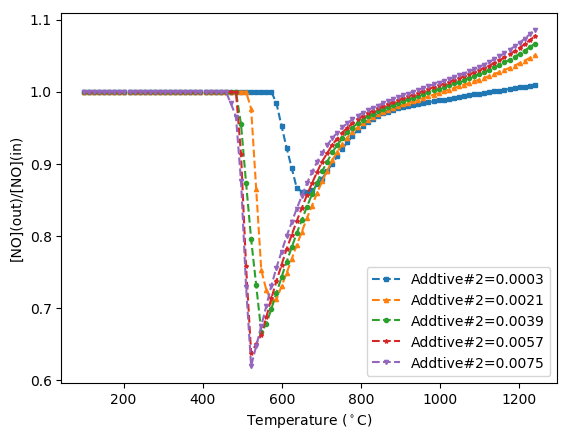
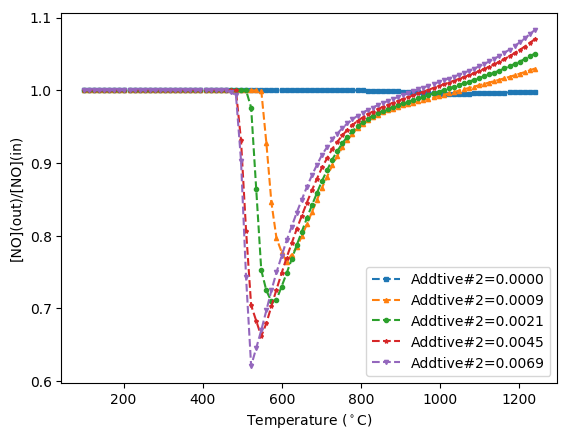
plot the nsr change

diff --git a/AllFig4Thesis.py b/AllFig4Thesis.py
@@ -77,14 +77,14 @@ class plotData:
         add1.count()
         h2_add1=np.linspace(0.000102,0.002754,num=14).tolist()
         h2_add1.insert(0,0)# the first time I used h2_add1=h2_add1.inset, but it doesn t work, the result is not in the return value of insert
-        h2_add1=np.asarray(h2_add1[1:14:3])
+        h2_add1=np.asarray(h2_add1[0:14:2])[[0,1,2,4,6]]
         h2_add2=np.linspace(0.27*3e-4,0.27*8.1e-3,num=14).tolist()
         h2_add2.insert(0,0)# the first time I used h2_add1=h2_add1.inset, but it doesn t work, the result is not in the return value of insert
         #h2_add2=np.asarray(h2_add2[1:14:3])
         h2_add2=np.asarray([0,0.000081,0.000243,0.000405,0.000567,0.000729,0.000891,0.001053,0.001215,0.001377,0.001539,0.001701,0.001863, \
-                            0.002025,0.002187][1:14:3])
+                            0.002025,0.002187][0:14:2])[[0,1,2,4,6]]
         h2_percentage=[0.34,0.27]
-        symbol=['s','^','o','*','v','d','1']
+        symbol=['s','^','o','*','v','d','p']
         k=0
         for i in [0,1]:
             addx=[add1,add2][i]
@@ -132,7 +132,41 @@ class plotData:
             plt.legend(lgd,fontsize=self.axissize)
             plt.savefig("DataAnalyse\\Fig\\"+ylbl.replace("/","_")+".png",bbox_inches='tight')
             plt.close()
-
+    def Additive_NSR_different(self):
+        df=pd.read_csv('DataAnalyse\\CSV_4_SNCR\\NSR=06_1_12_Additive.csv',header=0).drop_duplicates()
+        df['Mole Fraction NOx']=df['Mole fraction NO2 end point']+df['Mole fraction NO end point']+df['Mole fraction N2O end point']
+        df.count()
+        add2=df[abs(df["Reactant Fraction for H2 C1 Inlet1 PFR (C1)_(mole_fraction)"]-9.0*(df["Reactant Fraction for CO2 C1 Inlet1 PFR (C1)_(mole_fraction)"]-0.15))<10e-7]
+        add2.count()
+        add1=df[abs(df["Reactant Fraction for H2 C1 Inlet1 PFR (C1)_(mole_fraction)"]-34.0/31.0*(df["Reactant Fraction for CO2 C1 Inlet1 PFR (C1)_(mole_fraction)"]-0.15))<10e-7]
+        #here we can not write 34/31, the python will take this as 1
+        #add1[add1["Reactant Fraction for H2 C1 Inlet1 PFR (C1)_(mole_fraction)"]==0].count()
+        
+        symbol=['p','^','X','*','v','s','P','o']
+        for i in [1,2]:
+            addx=[add1,add2][i-1]
+            H2_Initial=[0.000408,0.000324][i-1]
+            for NSR in [0.6,1,1.2]:
+                for indicator in ['Mole fraction NO end point','Mole fraction NO2 end point','Mole fraction N2O end point','Mole fraction NH3 end point','Mole Fraction NOx']:
+                    plt.figure()
+                    plt.xlabel('Temperature ($^\circ$C)',fontsize=self.axissize)
+                    try:
+                        ylbl="["+indicator.split(" ")[2]+"](out)/[NO](in)"
+                    except:
+                        ylbl="["+indicator.split("_")[2]+"](out)/[NO](in)"
+                    plt.ylabel(ylbl,fontsize=self.axissize)
+                    
+                    #plt.title('NSR='+str(NSR))
+                    lgd=[]
+                    for j in [0,1,2,4,7]:
+                        dataSet=addx[(addx['Reactant Fraction for NH3 C1 Inlet1 PFR (C1)_(mole_fraction)']==NSR*0.0002) & (abs(addx['Reactant Fraction for H2 C1 Inlet1 PFR (C1)_(mole_fraction)']-H2_Initial*j)<10e-7)]
+                        f=interp1d(dataSet['Temperature C1 PFR PFR (C1)_(C)'],dataSet[indicator],kind='cubic')
+                        temperature_new=np.linspace(100,1240,num=90,endpoint=True)
+                        plt.plot(temperature_new,f(temperature_new)/(200e-6),symbol[j]+'--',markersize=4)
+                        lgd.append('Addtive#'+str(i)+'='+str(0.0012*j))                        
+                    plt.legend(lgd,fontsize=self.lgdsize)
+                    plt.savefig('DataAnalyse\\Fig\\NSR'+str(NSR)+ylbl.replace("/","_")+".png",bbox_inches='tight')
+                    plt.close()
     def verifyCaoQingXi(self):        
         symbol=iter(['^','s'])
         s=['-.','--']
@@ -259,7 +293,7 @@ class plotData:
                     NOs.append(NO)
                 except:
                     continue
-            s=['s','^','*','p','x']
+            s=['s','^','*','p','X']
             lgdArry=['0mg/m3 CH4','402mg/m3 CH4','804mg/m3 CH4','1206mg/m3 CH4','1608mg/m3 CH4']
             DataPoint=[]
             jj=-1
@@ -298,7 +332,7 @@ class plotData:
                     NOs.append(NO)
                 except:
                     continue
-            s=['s','^','*','p','x']
+            s=['s','^','*','p','X']
             lgdArry=['0mg/m3 CO','402mg/m3 CO','804mg/m3 CO','1206mg/m3 CO','1608mg/m3 CO']
             jj=-1
             DataPoint=[]
@@ -337,7 +371,7 @@ class plotData:
                     NOs.append(NO)
                 except:
                     continue
-            s=['s','^','*','p','x']
+            s=['s','^','*','p','X']
             lgdArry=['0mg/m3 H2','402mg/m3 H2','804mg/m3 H2','1206mg/m3 H2','1608mg/m3 H2']
             DataPoint=[]
             jj=-1
@@ -375,7 +409,7 @@ class plotData:
                     NOs.append(NO)
                 except:
                     continue
-            s=['s','^','*','p','x','D']
+            s=['s','^','*','p','X','D']
             lgdArry=['0% H2O' ,'2% H2O' ,'4% H2O' ,'6% H2O' ,'8% H2O' ,'10% H2O' ]
             jj=-1
             DataPoint=[]
@@ -414,7 +448,7 @@ class plotData:
                     NOs.append(NO)
                 except:
                     continue
-            s=['s','^','*','p','x','D']
+            s=['s','^','*','p','X','D']
             jj=-1
             lgdArry=['134mg/m3 NO' ,'509mg/m3 NO' ,'884mg/m3 NO' ,'1259mg/m3 NO' ,'1634mg/m3 NO' ,'2010mg/m3 NO']
             dataPoint=[]
@@ -453,7 +487,7 @@ class plotData:
                     NOs.append(NO)
                 except:
                     continue
-            s=['s','^','*','p','x','D']
+            s=['s','^','*','p','X','D']
             jj=-1
             dataPoint=[]
             lgdArry=['NSR=0','NSR=0.6','NSR=1.2','NSR=1.8','NSR=2.4','NSR=3.0']
@@ -492,7 +526,7 @@ class plotData:
                     NOs.append(NO)
                 except:
                     continue
-            s=['s','^','*','p','x','D']
+            s=['s','^','*','p','X','D']
             jj=-1
             lgdArry=['O2 0%' ,'O2 10%','O2 20%','O2 30%','O2 40%','O2 50%']
             dataPoint=[]
@@ -531,7 +565,7 @@ class plotData:
                     NOs.append(NO)
                 except:
                     continue
-            s=['s','^','*','p','x','D']
+            s=['s','^','*','p','X','D']
             jj=-1
             lgdArry=['p=1atm' ,'p=2.5atm','p=4atm','p=5.5atm','p=7atm','p=8.5atm']
             dataPoint=[]
@@ -570,7 +604,7 @@ class plotData:
                     NOs.append(NO)
                 except:
                     continue
-            s=['s','^','*','p','x','D']
+            s=['s','^','*','p','X','D']
             lgdArry=['p=1.0atm' ,'p=2.5atm','p=4.0atm','p=5.5atm','p=7.0atm','p=8.5atm']
             jj=-1
             dataPoint=[]
@@ -609,7 +643,7 @@ class plotData:
                     NOs.append(NO)
                 except:
                     continue
-            s=['s','^','*','p','x','D']
+            s=['s','^','*','p','X','D']
             jj=-1
             dataPoint=[]
             lgdArry=('residence time 1.8s','residence time 0.9s','residence time 0.6s','residence time 0.45s','residence time 0.36s','residence time 0.3s')
@@ -758,9 +792,10 @@ class plotData:
 if __name__=='__main__':
     figPlotter=plotData('large')
     
-    figPlotter.onlyAdditive()
+    
+    
     figPlotter.verifyCaoQingXi()
-    figPlotter.SNCR_AdditiveDetail()
+    
     
     figPlotter.CH4_Fig()
     figPlotter.CO_Fig()
@@ -772,10 +807,16 @@ if __name__=='__main__':
     figPlotter.pressure_NO2_Fig()
     figPlotter.Residtime_Fig()
     
+    figPlotter.Additive_NSR0()    
+    figPlotter.Additive_NSR_different()
+    figPlotter.onlyAdditive()
+    figPlotter.SNCR_AdditiveDetail()
+
+    figPlotter.GA_Convergence_Fig()
     figPlotter.specificTemperatureFig()
     figPlotter.temperatureInterval()
     figPlotter.Additive_Overall_Fig()
     figPlotter.AdditiveTemperatureShift()
-    figPlotter.GA_Convergence_Fig()
     
-    figPlotter.Additive_NSR0()
+    
+    
